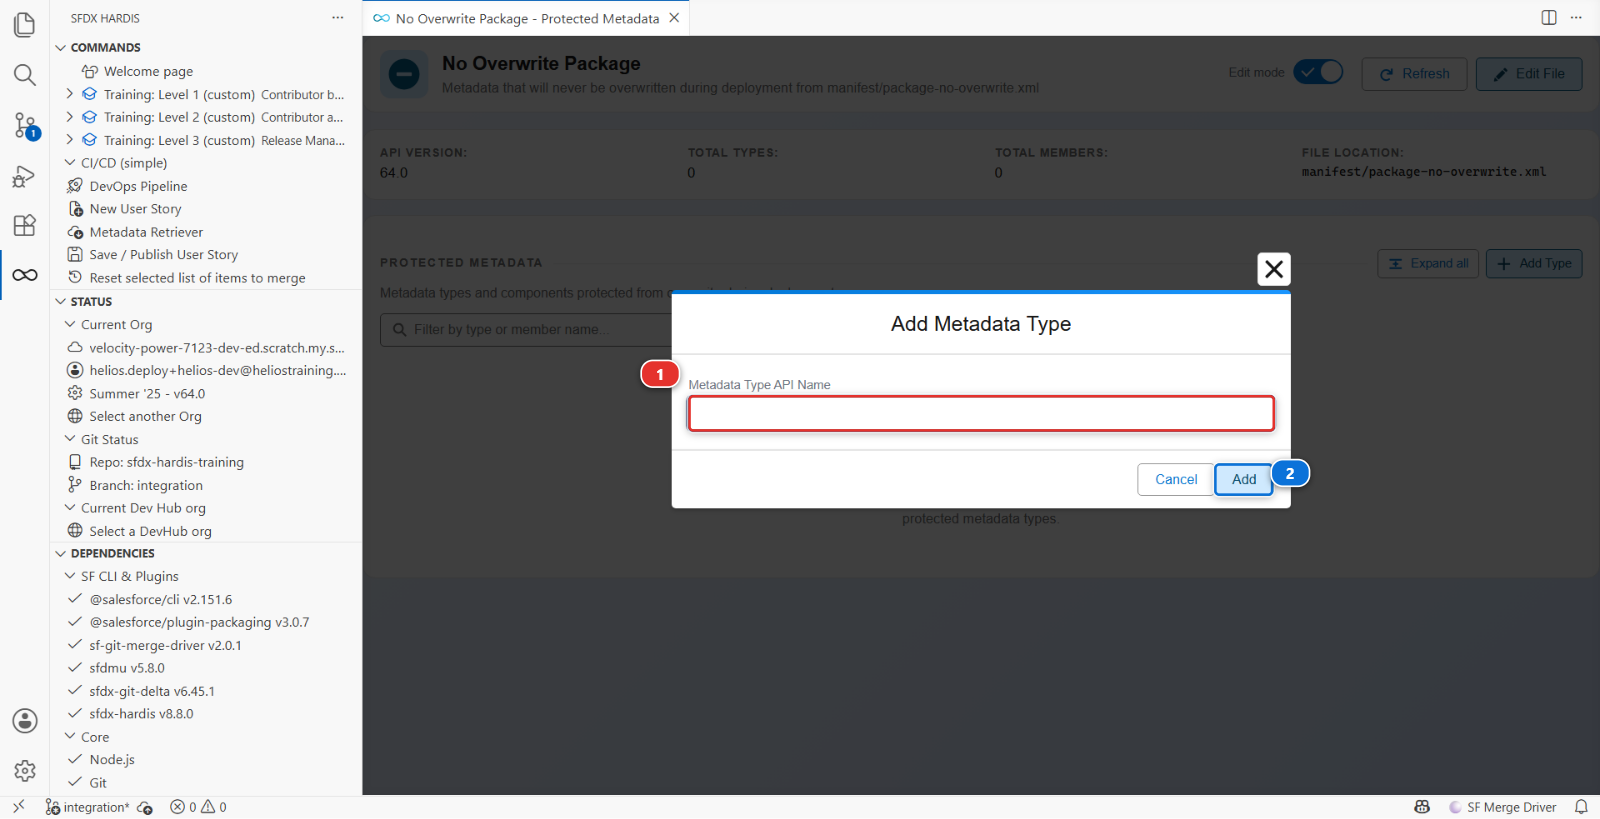
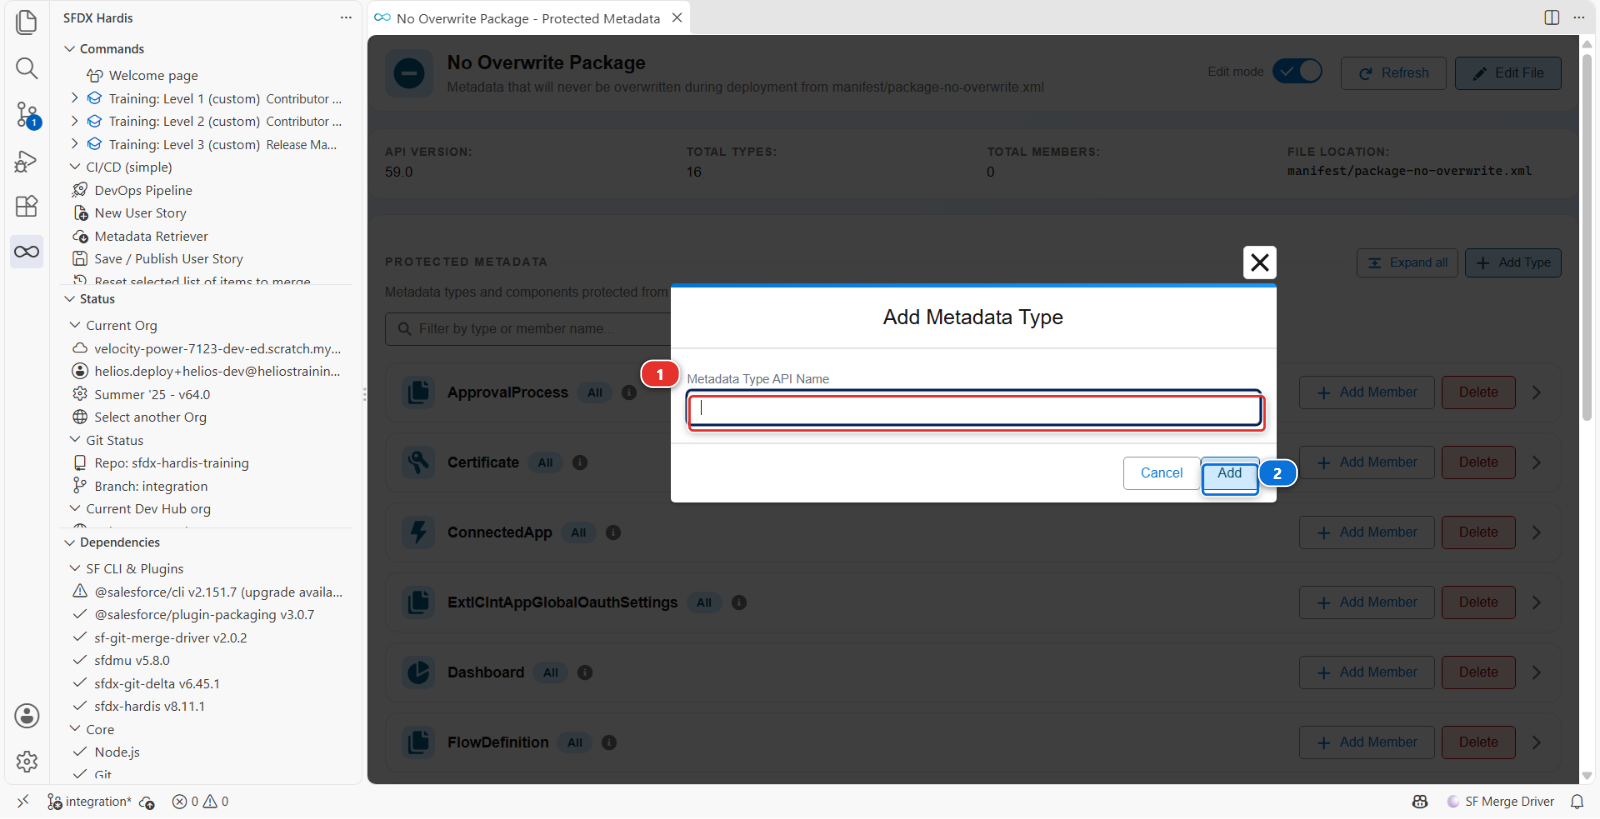
fix(training): Helios starts with the default package-no-overwrite.xml, and MegaLinter skips checkov and grype (#55)
* fix(training): Helios starts with the default package-no-overwrite.xml, and MegaLinter skips checkov and grype

* fix(training): French Labs 3.3, 3.4 and 3.5 follow the default package-no-overwrite.xml

* fix(training): Lab 3.5 package viewer screenshots show the default no-overwrite list

diff --git a/labs/fr/level-3-release-manager/3-5-promote-to-uat-and-write-release-notes.md b/labs/fr/level-3-release-manager/3-5-promote-to-uat-and-write-release-notes.md
@@ -5,7 +5,7 @@ description: "Protégez ce que l'UAT garde pour elle avec package-no-overwrite, 
 level: 3
 lab: 5
 lang: fr
-source_rev: "f23aca466021abbfa96066a9fe688eb25b279ab8"
+source_rev: "dd66f0b0d98198e8a0e40fd57b516f4abcce664b"
 screenshots:
   - annotated/vscode/devops-pipeline-level3--create-promotion
   - annotated/vscode/pipeline-branch-modal-level3--what-it-carries
@@ -104,12 +104,15 @@ l'adresse de production en UAT sans un mot. Le **gestionnaire d'écrasement** es
 cela : tout ce qui est listé dans `manifest/package-no-overwrite.xml` est retiré du déploiement quand
 l'org cible le possède déjà, et créé quand elle ne l'a pas.
 
-Le fichier n'existe pas encore, et vous n'avez pas à l'écrire. Dans le panneau **DevOps Pipeline**,
+Helios a déjà ce fichier : c'est la liste avec laquelle démarre tout projet sfdx-hardis. Elle protège
+les composants qu'une org garde pour elle presque partout, rapports et tableaux de bord maintenus en
+production, connected apps, named credentials, certificats. Les remote site settings n'y sont pas
+encore, et vous n'avez pas à écrire de XML pour les ajouter. Dans le panneau **DevOps Pipeline**,
 ouvrez le menu **Deployment packages**, celui qui ouvrait **Package XML** au [Lab 1.5](../level-1-contributor-basics/1-5-retrieve-commit-and-publish-your-changes.md), et choisissez
-**No Overwrite**. Le visualiseur de package s'ouvre sur une liste vide. Activez le **Edit mode**
+**No Overwrite**. Le visualiseur de package s'ouvre sur cette liste. Activez le **Edit mode**
 **(1)**, puis cliquez sur **Add Type** **(2)**.
 
-![Le visualiseur de package sur la liste no-overwrite vide, en mode édition](../../_assets/annotated/vscode/package-no-overwrite-edit--add-type.png)
+![Le visualiseur de package sur la liste no-overwrite par défaut, en mode édition](../../_assets/annotated/vscode/package-no-overwrite-edit--add-type.png)
 
 Tapez `RemoteSiteSetting`, le nom que Salesforce donne à ce type de composant, dans **Metadata Type
 API Name** **(1)**, et cliquez sur **Add** **(2)**.
@@ -117,9 +120,10 @@ API Name** **(1)**, et cliquez sur **Add** **(2)**.
 ![La fenêtre Add Metadata Type du visualiseur de package](../../_assets/annotated/vscode/package-no-overwrite-add-type--type.png)
 
 La nouvelle ligne **RemoteSiteSetting** a un bouton **Add member** : cliquez dessus, tapez
-`Helios_Warehouse`, et **Add**. Le visualiseur a écrit `manifest/package-no-overwrite.xml` pour vous,
-avec la forme de `manifest/package.xml` : un bloc par type de composant, ses membres listés par nom.
-**Edit File** l'ouvre en texte, si vous voulez le voir.
+`Helios_Warehouse`, et **Add**. Le visualiseur a ajouté un bloc `RemoteSiteSetting` à
+`manifest/package-no-overwrite.xml` pour vous. Le fichier a la forme de `manifest/package.xml` : un
+bloc par type de composant, ses membres listés par nom, ou `*` pour tous. **Edit File** l'ouvre en
+texte, si vous voulez le voir.
 
 Puis **Training: Level 3** > **Publish my pipeline configuration**, et mergez sa Pull Request une
 fois verte, comme au [Lab 3.1](3-1-configure-the-pipeline-up-to-production.md) : la liste de ce qui ne doit jamais être écrasé est de la configuration

diff --git a/labs/en/level-3-release-manager/3-5-promote-to-uat-and-write-release-notes.md b/labs/en/level-3-release-manager/3-5-promote-to-uat-and-write-release-notes.md
@@ -99,12 +99,15 @@ production address back in UAT without a word. The **overwrite manager** is for 
 anything listed in `manifest/package-no-overwrite.xml` is taken out of the deployment when the target
 org already has it, and created when it does not.
 
-The file does not exist yet, and you do not have to write it. In the **DevOps Pipeline** panel, open
-the **Deployment packages** menu, the one that opened **Package XML** in [Lab 1.5](../level-1-contributor-basics/1-5-retrieve-commit-and-publish-your-changes.md), and pick **No
-Overwrite**. The package viewer opens on an empty list. Turn **Edit mode** on **(1)**, then click
+Helios already has that file: it is the list every sfdx-hardis project starts with. It protects the
+components an org keeps for itself almost everywhere, reports and dashboards maintained in
+production, connected apps, named credentials, certificates. Remote site settings are not in it yet,
+and you do not have to write XML to add them. In the **DevOps Pipeline** panel, open the
+**Deployment packages** menu, the one that opened **Package XML** in [Lab 1.5](../level-1-contributor-basics/1-5-retrieve-commit-and-publish-your-changes.md), and pick **No
+Overwrite**. The package viewer opens on that list. Turn **Edit mode** on **(1)**, then click
 **Add Type** **(2)**.
 
-![The package viewer on the empty no-overwrite list, in edit mode](../../_assets/annotated/vscode/package-no-overwrite-edit--add-type.png)
+![The package viewer on the default no-overwrite list, in edit mode](../../_assets/annotated/vscode/package-no-overwrite-edit--add-type.png)
 
 Type `RemoteSiteSetting`, the name Salesforce gives this kind of component, in **Metadata Type API
 Name** **(1)**, and click **Add** **(2)**.
@@ -112,9 +115,9 @@ Name** **(1)**, and click **Add** **(2)**.
 ![The Add Metadata Type window of the package viewer](../../_assets/annotated/vscode/package-no-overwrite-add-type--type.png)
 
 The new **RemoteSiteSetting** row has an **Add member** button: click it, type `Helios_Warehouse`,
-and **Add**. The viewer wrote `manifest/package-no-overwrite.xml` for you, with the shape of
-`manifest/package.xml`: one block per kind of component, its members listed by name. **Edit File**
-opens it as text, if you want to see it.
+and **Add**. The viewer added a `RemoteSiteSetting` block to `manifest/package-no-overwrite.xml`
+for you. The file has the shape of `manifest/package.xml`: one block per kind of component, its
+members listed by name, or `*` for all of them. **Edit File** opens it as text, if you want to see it.
 
 Then **Training: Level 3** > **Publish my pipeline configuration**, and merge its Pull Request once
 green, as in [Lab 3.1](3-1-configure-the-pipeline-up-to-production.md): the list of what must never be overwritten is pipeline configuration, like the

diff --git a/labs/fr/level-3-release-manager/3-3-deploy-to-integration-and-read-the-log.md b/labs/fr/level-3-release-manager/3-3-deploy-to-integration-and-read-the-log.md
@@ -5,7 +5,7 @@ description: "Lisez correctement un log de déploiement sfdx-hardis, puis relise
 level: 3
 lab: 3
 lang: fr
-source_rev: "a34ea6fe2995834d2ab32fd72793082b541c84c8"
+source_rev: "dd66f0b0d98198e8a0e40fd57b516f4abcce664b"
 screenshots:
   - annotated/vscode/pipeline-config-deployment--delta
   - annotated/vscode/orgs-manager
@@ -218,15 +218,16 @@ et le package qu'il a envoyé a été construit ainsi :
    `enableDeltaDeploymentBetweenMajorBranches` décide si la même chose s'applique à un déploiement de
    majeure à majeure, et est désactivé par défaut parce qu'une promotion vers la production est le
    pire endroit possible pour découvrir que l'org a dérivé
-3. **Le gestionnaire d'écrasement**, si `manifest/package-no-overwrite.xml` existe : l'org est
+3. **Le gestionnaire d'écrasement**, quand `manifest/package-no-overwrite.xml` liste quelque chose : l'org est
    interrogée, et tout composant **listé dans ce fichier** que l'org possède déjà est retiré. Il est
    limité à sa propre liste et à rien d'autre, et un composant qu'il protège est quand même créé dans
    une org qui ne l'a pas encore
 4. **Le deploy-on-change**, si `manifest/packageDeployOnChange.xml` existe : ces composants, et eux
    seuls, sont récupérés depuis l'org et comparés, et ceux qui n'ont pas changé sont écartés
 
-Les étapes 2, 3 et 4 sont toutes désactivées dans ce projet : ce que Salesforce reçoit est donc
-l'étape 1.
+Les étapes 2 et 4 sont désactivées dans ce projet. L'étape 3 s'exécute, et ses lignes `[NoOverwrite]`
+sont dans le log, mais rien de ce que déploie Helios n'est encore dans sa liste : ce que Salesforce
+reçoit est donc l'étape 1.
 
 **Le nettoyage n'est pas dans cette liste, et c'est ce qu'il faut retenir.** Les règles
 `autoCleanTypes` tournent à l'intérieur de `sf hardis:work:save`, sur la machine d'un contributeur,

diff --git a/labs/fr/level-3-release-manager/3-4-merge-colliding-pull-requests.md b/labs/fr/level-3-release-manager/3-4-merge-colliding-pull-requests.md
@@ -5,7 +5,7 @@ description: "Décidez de l'ordre dans lequel trois Pull Requests sont mergées 
 level: 3
 lab: 4
 lang: fr
-source_rev: "a34ea6fe2995834d2ab32fd72793082b541c84c8"
+source_rev: "dd66f0b0d98198e8a0e40fd57b516f4abcce664b"
 screenshots:
   - annotated/vscode/welcome-custom-menu-3
   - annotated/vscode/pipeline-config--cleaning-overwrite
@@ -188,8 +188,10 @@ permissions sur les profils.
 **Le gestionnaire d'écrasement** (`packageNoOverwritePath`) protège les composants délibérément
 différents d'une org à l'autre. Tout ce qui est listé dans `manifest/package-no-overwrite.xml` est
 retiré du package quand l'org cible le possède déjà, pour qu'un déploiement ne puisse pas aplatir un
-named credential qui pointe vers un endpoint différent dans chaque environnement. Le fichier n'existe
-pas encore dans ce projet, rien n'est donc protégé : le [Lab 3.5](3-5-promote-to-uat-and-write-release-notes.md) le crée, avant la première promotion
+named credential qui pointe vers un endpoint différent dans chaque environnement. Le projet démarre
+avec la liste que reçoit tout projet sfdx-hardis. Elle couvre rapports, tableaux de bord, connected
+apps et credentials, Helios ne déploie rien de tout cela, donc rien de ce qu'il déploie n'est encore
+protégé : le [Lab 3.5](3-5-promote-to-uat-and-write-release-notes.md) y ajoute la première entrée qui compte, avant la première promotion
 vers `uat`. Son emplacement peut être changé par branche, c'est pourquoi vous ne le trouverez pas
 dans l'onglet **Deployment** **(2)** global : basculez la portée sur `Branch: integration` et il y
 est, sous **Branch-scoped custom Package-No-Overwrite path**.

diff --git a/labs/en/level-3-release-manager/3-3-deploy-to-integration-and-read-the-log.md b/labs/en/level-3-release-manager/3-3-deploy-to-integration-and-read-the-log.md
@@ -207,14 +207,15 @@ and the package it sent was built like this:
    package. `enableDeltaDeploymentBetweenMajorBranches` controls whether the same applies to a
    major-to-major deployment, and is off by default because a promotion to production is the worst
    possible place to discover that the org drifted
-3. **The overwrite manager**, if `manifest/package-no-overwrite.xml` exists: the org is queried, and
+3. **The overwrite manager**, when `manifest/package-no-overwrite.xml` lists something: the org is queried, and
    any component **listed in that file** that the org already has is taken out. It is scoped to its
    own list and nothing else, and a component it protects is still created in an org that does not
    have it yet
 4. **Deploy-on-change**, if `manifest/packageDeployOnChange.xml` exists: those components, and only
    those, are retrieved from the org and compared, and the unchanged ones are dropped
 
-Steps 2, 3 and 4 are all off in this project, so what Salesforce receives is step 1.
+Steps 2 and 4 are off in this project. Step 3 runs, and its `[NoOverwrite]` lines are in the log, but
+none of what Helios deploys is in its list yet, so what Salesforce receives is step 1.
 
 **Cleaning is not in that list, and this is the thing to take away.** The `autoCleanTypes` rules run
 inside `sf hardis:work:save`, on a contributor's machine, before the commit. They rewrite the files

diff --git a/labs/en/level-3-release-manager/3-4-merge-colliding-pull-requests.md b/labs/en/level-3-release-manager/3-4-merge-colliding-pull-requests.md
@@ -175,8 +175,9 @@ project bans permissions on Profiles.
 **The overwrite manager** (`packageNoOverwritePath`) protects components that are deliberately
 different per org. Anything listed in `manifest/package-no-overwrite.xml` is removed from the package
 when the target org already has it, so a deployment cannot flatten a named credential that points at
-a different endpoint in each environment. The file does not exist in this project yet, so nothing is
-protected: [Lab 3.5](3-5-promote-to-uat-and-write-release-notes.md) creates it, before the first promotion to `uat`. Its location can be changed per
+a different endpoint in each environment. The project starts with the list every sfdx-hardis project
+gets. It covers reports, dashboards, connected apps and credentials, Helios deploys none of those,
+so nothing it deploys is protected yet: [Lab 3.5](3-5-promote-to-uat-and-write-release-notes.md) adds the first entry that matters, before the first promotion to `uat`. Its location can be changed per
 branch, which is why you will not find it on the global **Deployment** tab **(2)**: switch the scope
 to `Branch: integration` and it is there, as **Branch-scoped custom Package-No-Overwrite path**.
 

diff --git a/CHANGELOG.md b/CHANGELOG.md
@@ -5,6 +5,8 @@ a day, newest first, and a change goes under the date of the day it is made.
 
 ## 2026-09-27
 
+- Helios starts with the package-no-overwrite.xml every sfdx-hardis project gets, and Lab 3.5 adds the warehouse remote site setting to it.
+- Pull Request checks are faster: MegaLinter no longer runs checkov and grype on the course.
 - New **Create my lab records** entry in the Level 2 Training menu: Lab 2.4 no longer asks you to type the 12 Crew Capacity records, it creates them and you check them.
 - The Apex code analyzer now blocks a Pull Request, as on a real project: Lab 2.5 shows the query in a loop refused, and the Apex samples the labs copy no longer carry findings.
 - Lab 2.4 gives the SOQL query and the label to type when you create the data workspace, links SFDMU, and says how precise a manual action must be.
